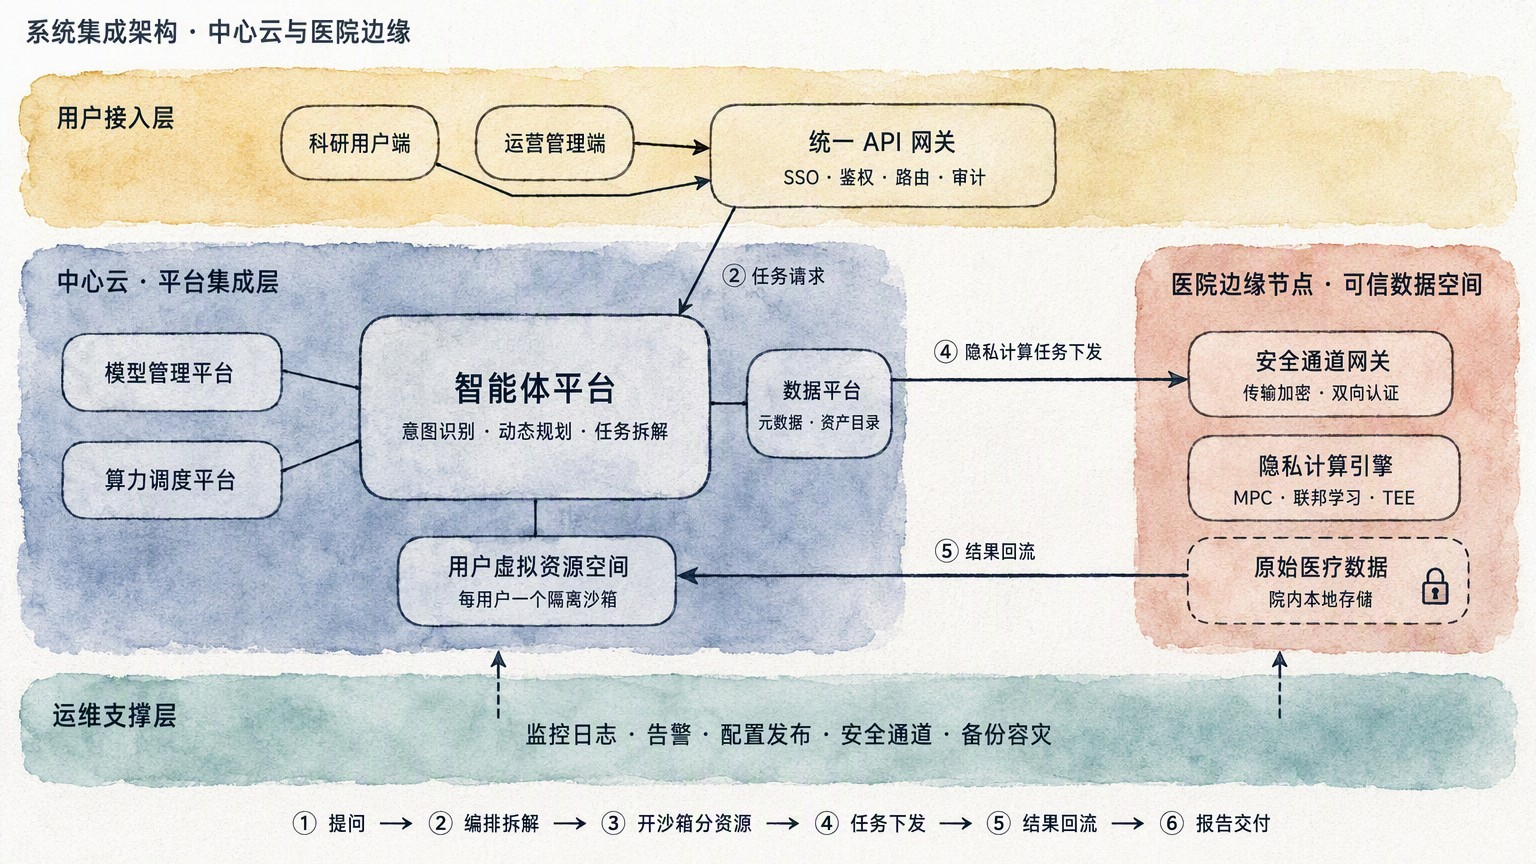
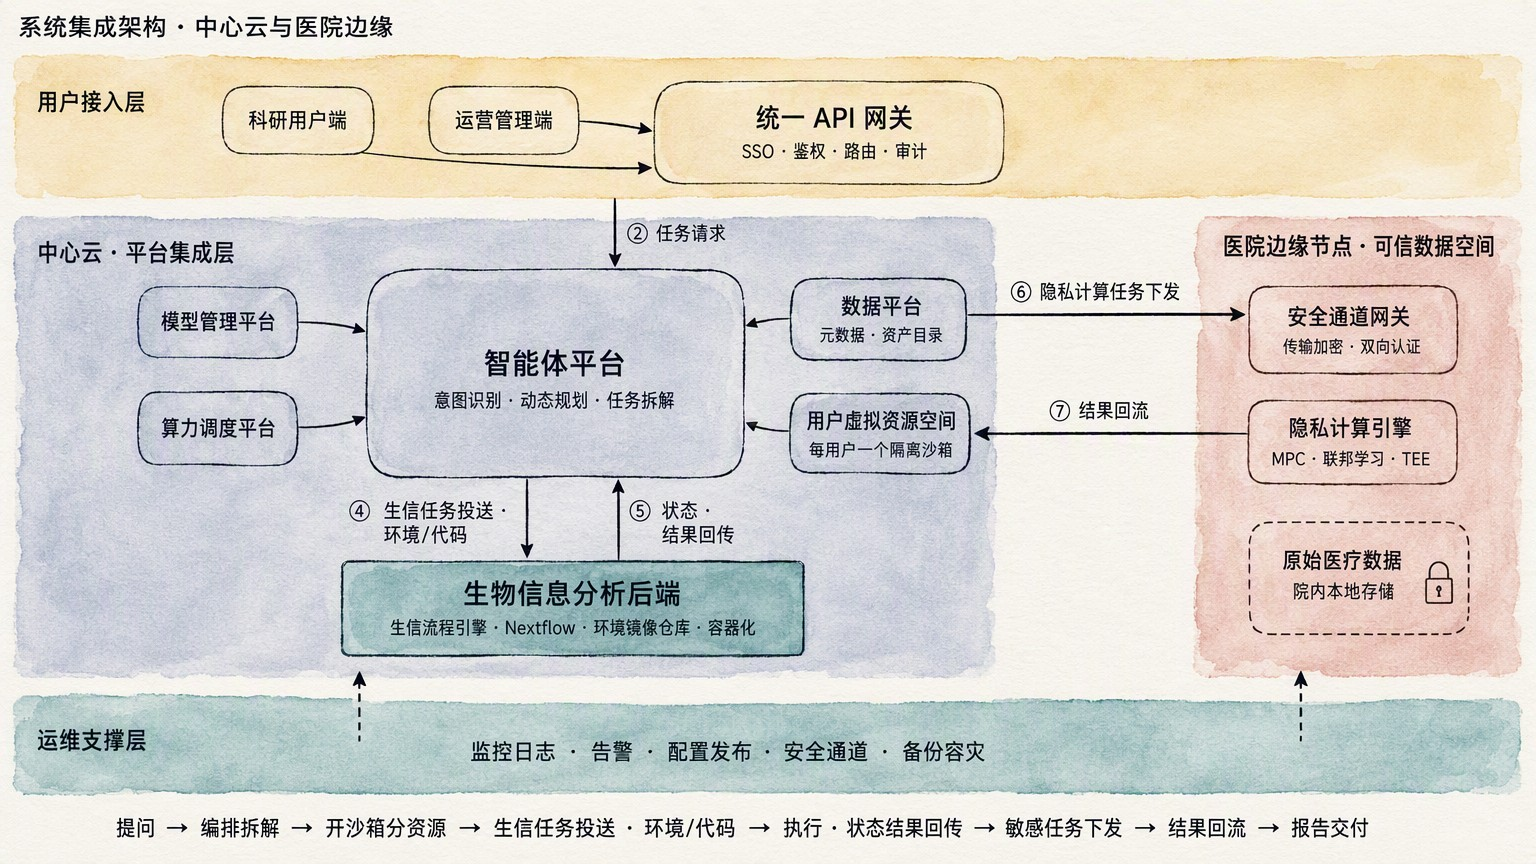
docs(gallery): add the bioinformatics analysis backend to the three architecture diagrams
The integration, data-lifecycle and runtime diagrams each grew the
independent backend that carries the heavy pipeline compute: it sits
under the agent platform in the centre-cloud integration layer, takes
environment-and-code hand-offs and returns status and results, hosts
image builds and Nextflow pipelines, and owns its own swimlane in the
runtime flow (now seven lanes, not six). Redrew all three plates and
rewrote their captions and descriptions to walk the new components in
the order the eye meets them.

diff --git a/packages/views/gallery/components/gallery-catalog.ts b/packages/views/gallery/components/gallery-catalog.ts
@@ -222,28 +222,33 @@ export const GALLERY_WORKS: GalleryWork[] = [
         title: "系统集成架构 · 中心云与医院边缘",
         shortTitle: "系统集成架构",
         caption:
-          "用户接入在上、运维支撑在下，中间是并置的中心云平台集成层与医院边缘可信数据空间；"
-          + "页脚六步串起从提问到报告交付的完整链路。",
+          "用户接入在上、运维支撑在下，中心云集成层里智能体平台之下并置独立的生物信息分析后端承接重型计算，"
+          + "右侧是医院边缘可信数据空间；页脚串起从提问到报告交付的完整链路。",
         description:
           "四层手绘架构图。上层为用户接入层，科研用户端与运营管理端汇入统一 API 网关；"
-          + "中层左侧为中心云平台集成层，智能体平台连接模型管理平台、算力调度平台、数据平台与用户虚拟资源空间；"
+          + "中层左侧为中心云平台集成层，智能体平台连接模型管理平台、算力调度平台、数据平台与用户虚拟资源空间，"
+          + "其下部并置独立的生物信息分析后端（生信流程引擎 · Nextflow · 环境镜像仓库 · 容器化），"
+          + "与智能体平台以两支编号箭头直连：投送分析环境与代码、回传状态与结果；"
           + "中层右侧为医院边缘节点可信数据空间，含安全通道网关、隐私计算引擎与不出院的原始医疗数据；"
-          + "下层为运维支撑层。底部标注六步链路：提问、编排拆解、开沙箱分资源、任务下发、结果回流、报告交付。",
+          + "下层为运维支撑层。底部标注完整链路：提问、编排拆解、开沙箱分资源、生信任务投送、执行与状态结果回传、"
+          + "敏感任务下发、结果回流、报告交付。",
       },
       {
         id: "data-lifecycle",
         file: "architecture-data-lifecycle.jpg",
-        title: "数据全生命周期 · 三类沙箱与三级分层",
         shortTitle: "数据全生命周期",
+        title: "数据全生命周期 · 三类沙箱与三级分层",
         caption:
           "院端一体机治理后本地留存：非敏感数据目录连实体一并上行，敏感数据只出目录与元数据；"
-          + "原始层永不放行，分析就绪层编目上行，群体统计量可上行。",
+          + "平台侧新增生物信息分析后端承接生信镜像构建与重型分析，原始层永不放行。",
         description:
           "数据全生命周期手绘图。左列为医院侧一体机，自上而下是原始数据源、数据治理流水线、本地存储、"
           + "院端连接器沙箱与可信连接器；右列为平台侧中心云，自上而下是中心侧连接器、数据平台、运营管理端、"
-          + "智能体平台与用户虚拟资源空间。两列之间标注上行策略：非敏感数据走目录加实体，敏感数据仅走目录加元数据。"
+          + "智能体平台、生物信息分析后端与用户虚拟资源空间，智能体平台与后端之间以分析需求投送、状态结果回传"
+          + "两支箭头构成协作环。两列之间标注上行策略：非敏感数据走目录加实体，敏感数据仅走目录加元数据。"
           + "底部并列三级数据分层：原始层永不放行、分析就绪层编目上行、群体统计量可上行；"
-          + "页脚标注三类沙箱的执行位置：院端沙箱、中心沙箱与用户虚拟资源空间，生信镜像由 Nextflow 分发、随沙箱销毁。",
+          + "页脚标注三类沙箱的执行位置：院端沙箱、中心沙箱（生物信息分析后端流水线）与用户虚拟资源空间，"
+          + "生信环境镜像由后端统一构建、Nextflow 分发、随沙箱销毁。",
       },
       {
         id: "runtime",
@@ -251,13 +256,14 @@ export const GALLERY_WORKS: GalleryWork[] = [
         title: "技术流转 · 从科研提问到报告交付",
         shortTitle: "技术流转",
         caption:
-          "六条泳道、九个步骤：提问经意图拆解与资源预估落到用户空间，"
+          "七条泳道、九个步骤：提问经意图拆解与资源预估落到用户空间，生信任务投送至生物信息分析后端执行，"
           + "执行期按计算、模型、敏感三路分发，敏感步骤只走 DSEP 合约。",
         description:
-          "六条泳道的手绘流程图，自上而下为用户统一门户、智能体平台、模型管理平台、数据平台、"
+          "七条泳道的手绘流程图，自上而下为用户统一门户、智能体平台、生物信息分析后端、模型管理平台、数据平台、"
           + "运维平台用户空间、院端可信数据空间。九个步骤依次为科研提问、意图识别与拆解、资源预估、开用户空间、"
-          + "资产检索、生成计划 DAG、拉起 Nextflow Runner、执行期三路分发、报告交付；"
-          + "底部说明计算步骤、模型步骤与敏感步骤的分发差异。",
+          + "资产检索、生成计划 DAG、拉起生信流水线（位于后端泳道，投送分析环境与代码）、执行期三路分发、报告交付；"
+          + "计算步骤投送生物信息分析后端执行、产物写入用户 PVC，模型步骤走推理调用，"
+          + "敏感步骤走 DSEP 合约投送院端、原始数据不出域。",
       },
     ],
   },
